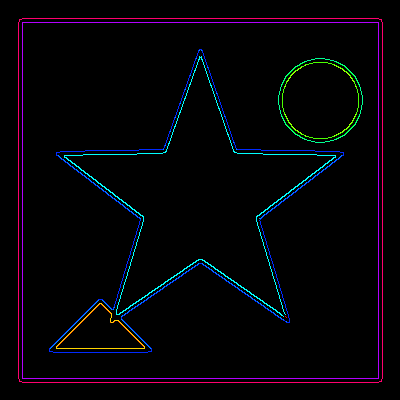
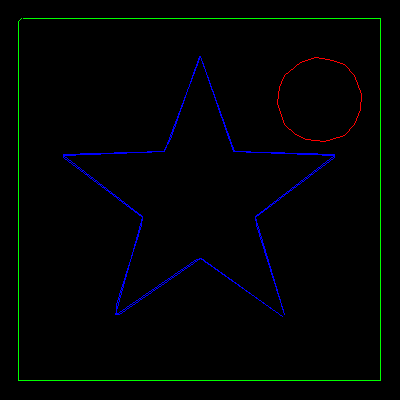
update preview image and add GitHub stars badge
Regenerate preview_star.png with contour deduplication active so each
shape renders as a single stroke instead of doubled parallel lines.
Bump default merge_distance_px from 5 to 8 to properly merge Canny
edge pairs from typical line widths. Add GitHub stars badge to README.

diff --git a/painter.py b/painter.py
@@ -88,7 +88,7 @@ _DEFAULTS = {
         "canny_high": 150,
         "min_contour_px": 10,
         "simplify_epsilon": 1.5,
-        "merge_distance_px": 5,
+        "merge_distance_px": 8,
     },
     "calibration": {
         "countdown_seconds": 3,

diff --git a/README.md b/README.md
@@ -1,6 +1,7 @@
 # STS2 Map Painter
 
 [![Tests](https://github.com/ashaid/slaypentri/actions/workflows/tests.yml/badge.svg)](https://github.com/ashaid/slaypentri/actions/workflows/tests.yml)
+[![GitHub stars](https://img.shields.io/github/stars/ashaid/slaypentri)](https://github.com/ashaid/slaypentri/stargazers)
 
 Traces image contours as mouse strokes within a screen bounding box. Load a PNG, preview detected edges, click two corners to define your canvas, and the tool replays every contour as a mouse-driven brush stroke.
 
